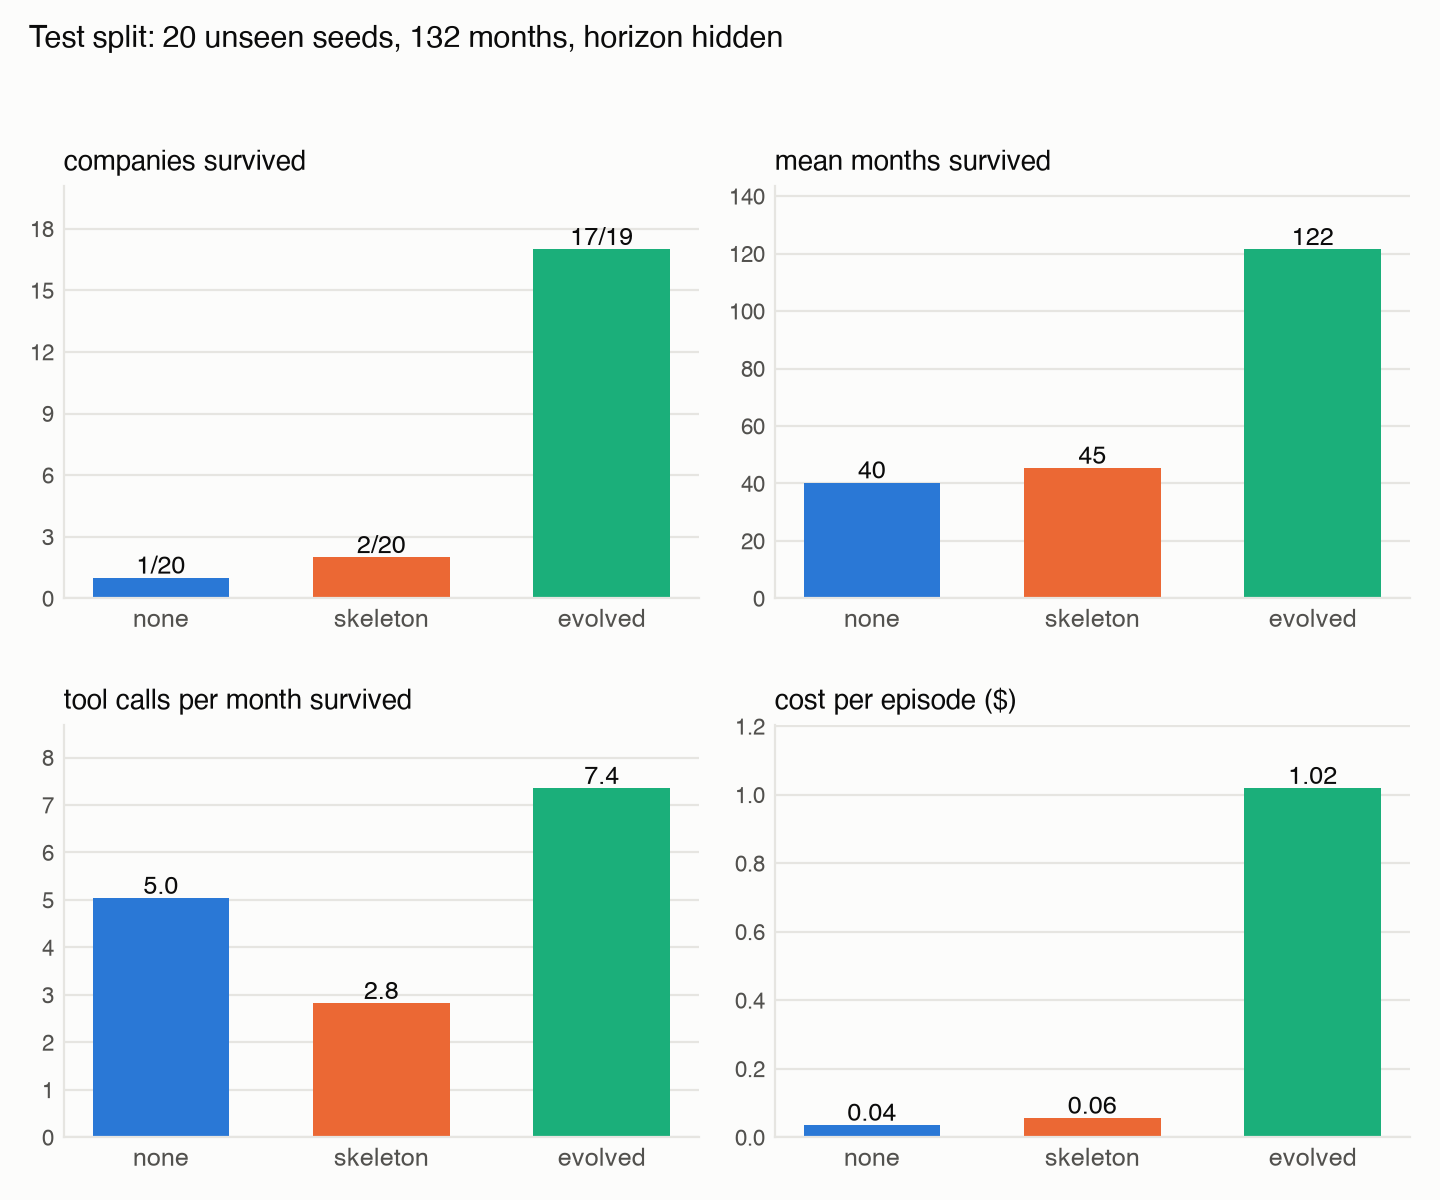
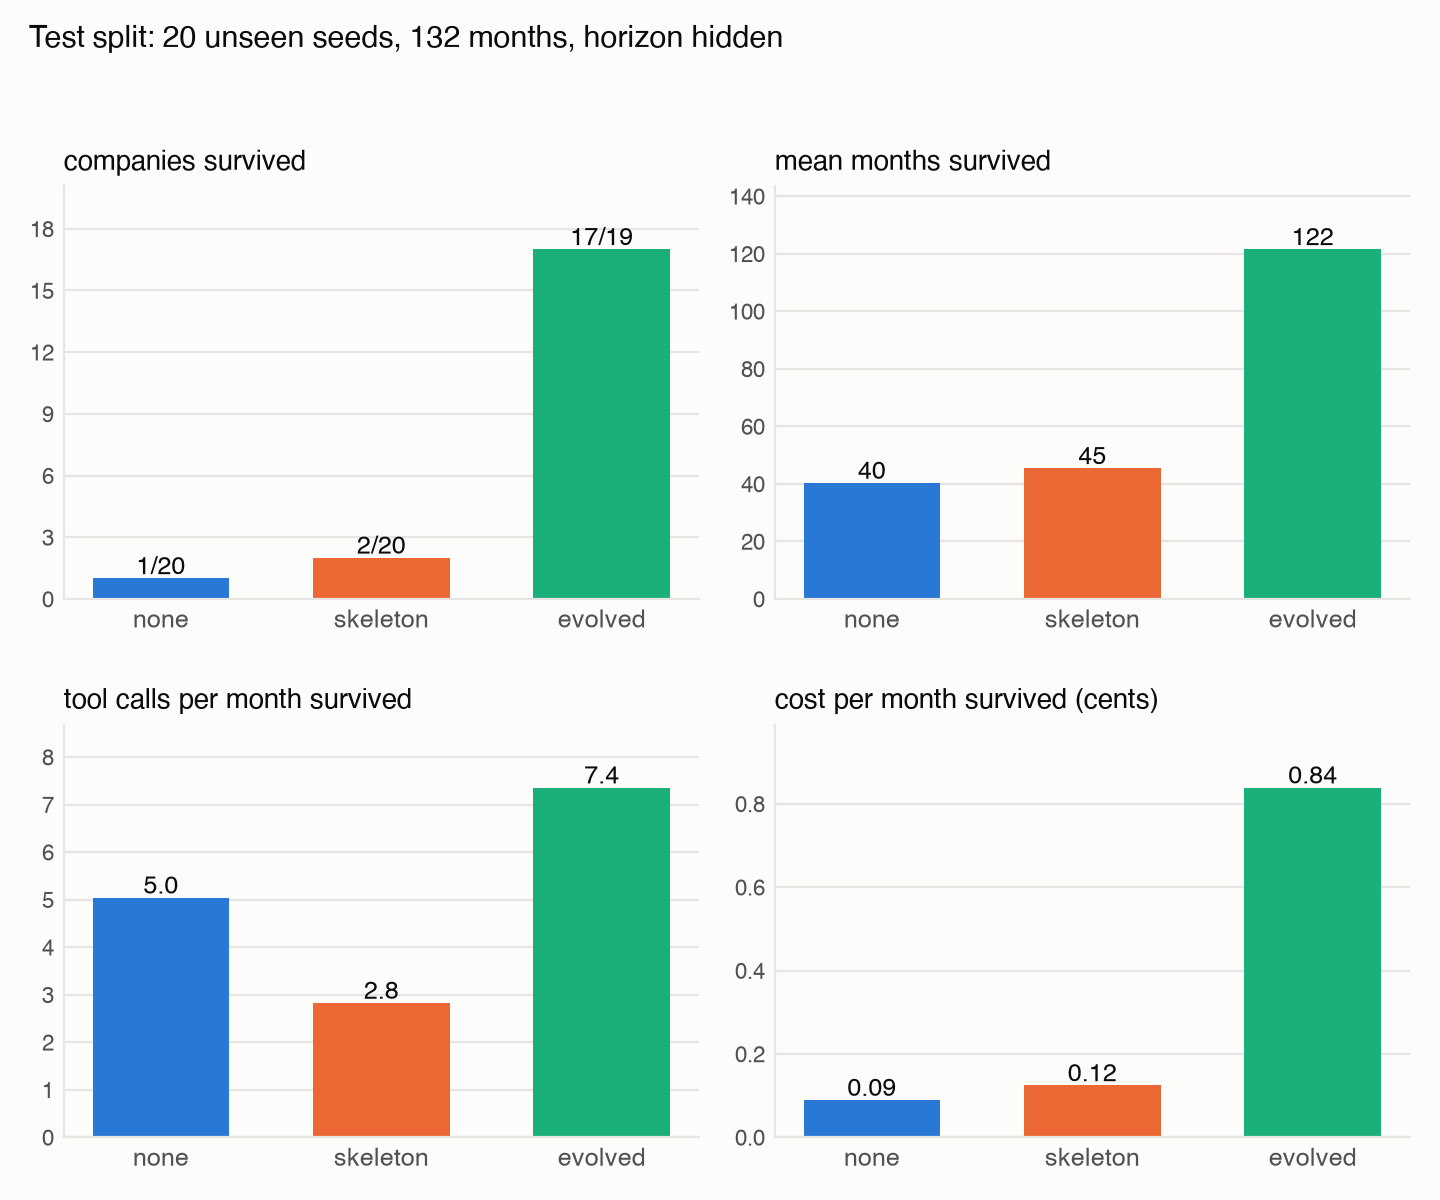
Metrics panel: cost per month survived (cents) instead of per episode
Per-episode cost charged the evolved graph for living three times longer.

diff --git a/analysis/result_charts.py b/analysis/result_charts.py
@@ -3,7 +3,7 @@
     uv run --with matplotlib python -m analysis.result_charts runs/<stamp>-eval-enterprisearena \\
         [--evolve graphs/evolved/<run>] [--out analysis/img/<name>]
 
-Writes: metrics.png (2x2 small multiples: survived, months, tool calls per month survived, cost per graph), survival.png (fraction of companies solvent by month, per graph), and, with --evolve, evolution.png
+Writes: metrics.png (2x2 small multiples: survived, months, tool calls and cost per month survived, per graph), survival.png (fraction of companies solvent by month, per graph), and, with --evolve, evolution.png
 (validation score and graph size by round). Graph specs are labelled by their file name; `none` stays `none`.
 """
 from __future__ import annotations
@@ -55,7 +55,7 @@ def metrics_panel(data: dict, out: Path) -> None:
     panels = [("survived", "companies survived", lambda ts: sum(t.success for t in ts), "{:.0f}"),
               ("months", "mean months survived", lambda ts: mean(t.metrics["months_survived"] for t in ts), "{:.0f}"),
               ("steps", "tool calls per month survived", lambda ts: sum(len(t.steps) for t in ts) / sum(t.metrics["months_survived"] for t in ts), "{:.1f}"),
-              ("cost", "cost per episode ($)", lambda ts: mean(cost(t) for t in ts), "{:.2f}")]
+              ("cost", "cost per month survived (cents)", lambda ts: 100 * sum(cost(t) for t in ts) / sum(t.metrics["months_survived"] for t in ts), "{:.2f}")]
     fig, axes = plt.subplots(2, 2, figsize=(7.2, 6))
     for ax, (_, title, f, fmt) in zip(axes.flat, panels):
         vals = [f(ts) for ts in data.values()]

diff --git a/analysis/README.md b/analysis/README.md
@@ -7,7 +7,7 @@ from here. Deleting `analysis/` must leave `pg evolve` / `pg eval` fully working
 | File | What it is |
 |---|---|
 | [`paired_comparison.py`](paired_comparison.py) | Is a graph really better? Paired statistics over one or more `pg eval` run directories (bootstrap CI over tasks, exact McNemar on success) |
-| [`result_charts.py`](result_charts.py) | Static charts of an eval run for reports: 2x2 bars (survived, months, tool calls per month survived, cost), survival-by-month curves, and the evolution curve from an evolve log. `uv run --with matplotlib python -m analysis.result_charts runs/<stamp>-eval-<env> --evolve graphs/evolved/<run> [--exclude expert]` |
+| [`result_charts.py`](result_charts.py) | Static charts of an eval run for reports: 2x2 bars (survived, months, tool calls and cost per month survived), survival-by-month curves, and the evolution curve from an evolve log. `uv run --with matplotlib python -m analysis.result_charts runs/<stamp>-eval-<env> --evolve graphs/evolved/<run> [--exclude expert]` |
 | [`graph_evolution.py`](graph_evolution.py) | How a graph changed over an evolve run: text diff, Mermaid per round, interactive timeline; also `graph_to_svg` / `graph_to_mermaid` for drawing any graph |
 | [`timeline_template.html`](timeline_template.html) | The timeline page `graph_evolution.py report` fills in (self-contained apart from the dagre layout library, loaded from a CDN) |
 | [`walkthrough.ipynb`](walkthrough.ipynb) | **Start here.** The walkthrough as an executable notebook: the conceptual map, then every mechanism exercised by a cell on HotpotQA, ending with a real three-round evolution and its timeline. Saved with outputs. Sections 1–6, 8, 10–11 and 13 need no API key; the live sections cost about $1.50 in total (the evolve cell reuses its run on re-open). Graph diagrams are SVGs made with Graphviz: `brew install graphviz` (the `dot` binary; the Python package is a dev dependency); without it the notebook falls back to Mermaid blocks. `uv run --with jupyterlab jupyter lab` from the repo root |
